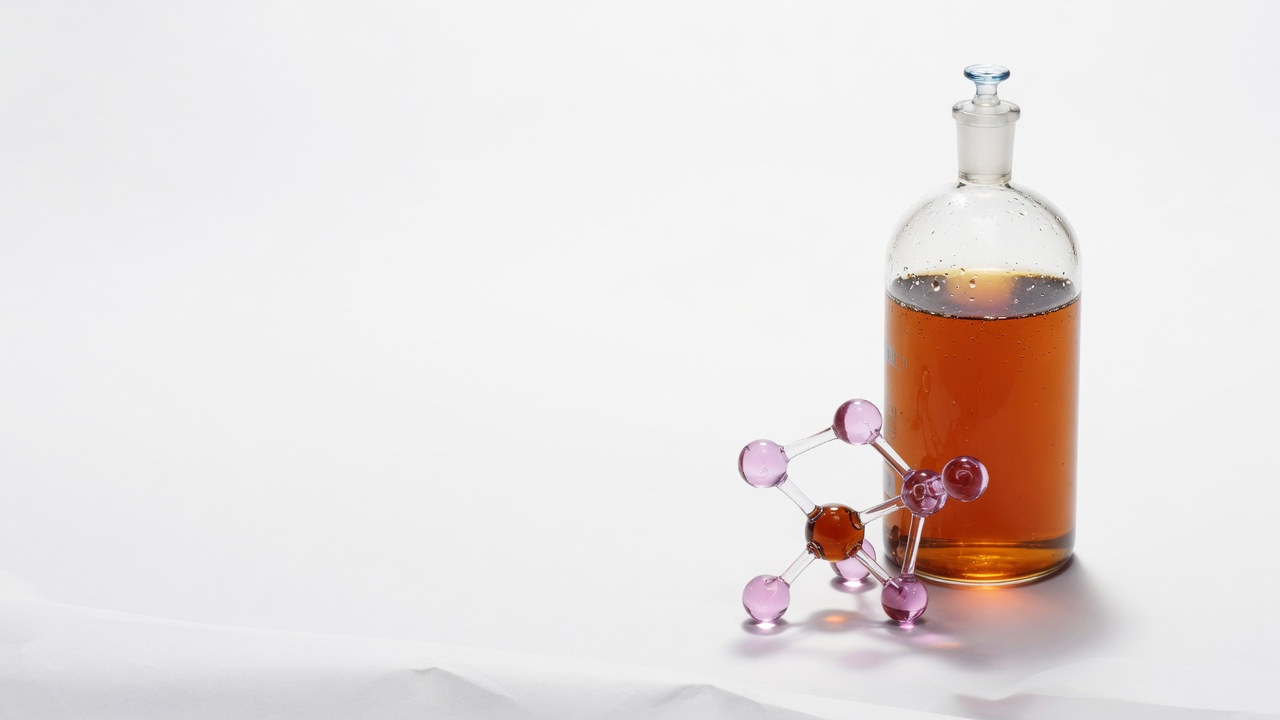
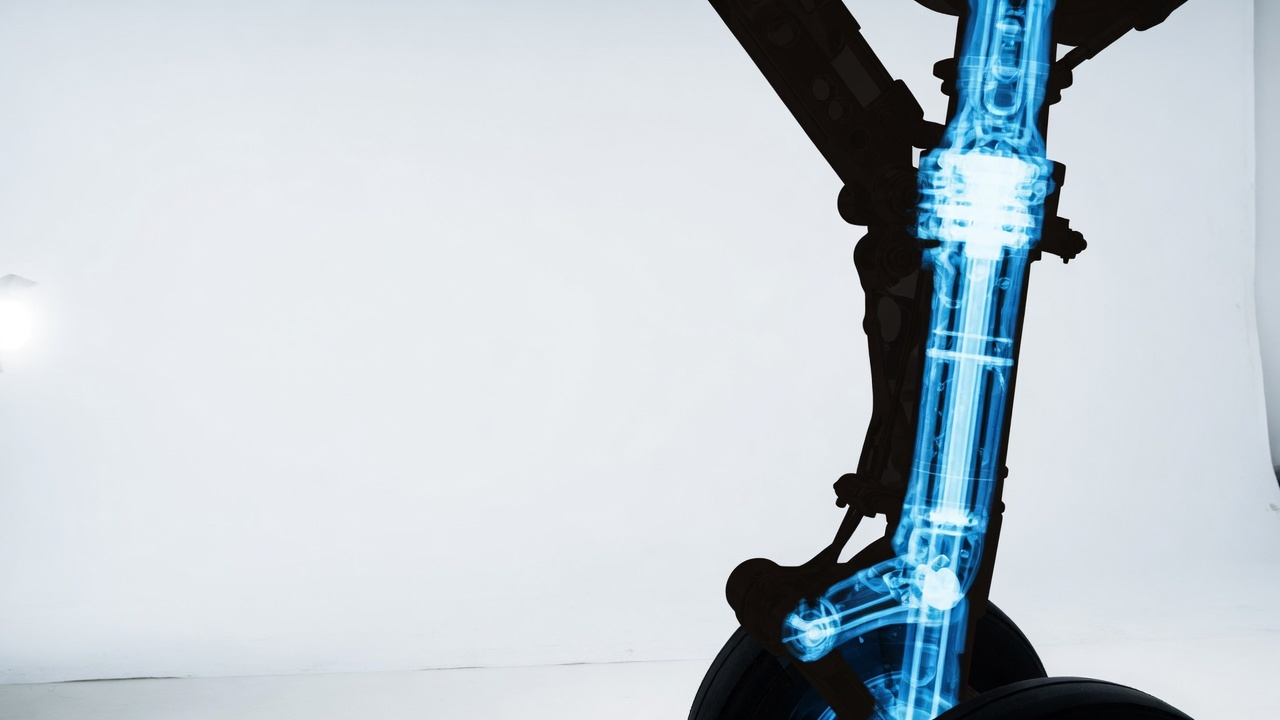
Fix contrast, full profile, x-ray reveal, and contacts
Add a white scrim so type stays readable over the tire. Read profile now includes every career chapter. Swap the chemistry still for an x-ray of the same landing gear. Remove the globe mark and restore email, LinkedIn, GitHub, and CV.

diff --git a/index.html b/index.html
@@ -68,7 +68,8 @@
       padding-inline: var(--pad-x);
       padding-top: var(--header-pt);
       padding-bottom: var(--section-gap);
-      display: flex; justify-content: space-between; align-items: center;
+      display: flex; justify-content: space-between; align-items: center; gap: 1rem;
+      background: linear-gradient(180deg, rgba(255,255,255,0.94) 0%, rgba(255,255,255,0.6) 70%, rgba(255,255,255,0) 100%);
     }
     .logo {
       font-family: 'Orbitron', sans-serif;
@@ -101,7 +102,11 @@
       main { flex-direction: row; justify-content: space-between; align-items: stretch; }
     }
 
-    .hero-left { display: flex; flex-direction: column; justify-content: center; max-width: 36rem; }
+    .hero-left {
+      display: flex; flex-direction: column; justify-content: center; max-width: 38rem;
+      padding: 1.25rem 1.5rem 1.25rem 0;
+      background: linear-gradient(90deg, rgba(255,255,255,0.96) 0%, rgba(255,255,255,0.88) 72%, rgba(255,255,255,0) 100%);
+    }
     .brackets { display: flex; }
     .headline {
       font-family: 'Orbitron', sans-serif;
@@ -126,11 +131,22 @@
     .cta:hover .arrow { transform: translate(2px, -2px); }
     .arrow { transition: transform 0.2s ease; width: var(--icon); height: var(--icon); }
 
-    .hero-right { align-self: flex-end; min-width: var(--feature-min); padding: var(--feature-pad); position: relative; }
+    .hero-right {
+      align-self: flex-end; min-width: var(--feature-min); padding: var(--feature-pad);
+      position: relative;
+      background: rgba(255,255,255,0.88);
+    }
     .hero-right p {
       font-weight: 600; text-transform: uppercase; letter-spacing: 0.18em;
-      font-size: var(--body); margin-top: 0.75rem;
+      font-size: var(--body);
     }
+    .contacts { display: flex; gap: 0.65rem; margin-top: 0.9rem; }
+    .contacts a {
+      width: 2rem; height: 2rem; display: grid; place-items: center;
+      border: 1px solid #9ca3af; color: #000; text-decoration: none;
+    }
+    .contacts a:hover { background: #000; color: #fff; border-color: #000; }
+    .contacts svg { width: 0.95rem; height: 0.95rem; }
     .corner { position: absolute; width: var(--corner); height: var(--corner); }
 
     .mobile-shot {
@@ -147,7 +163,7 @@
     .backdrop { position: absolute; inset: 0; background: rgba(0,0,0,0.2); backdrop-filter: blur(2px); }
     .drawer {
       position: absolute; top: 0; right: 0; height: 100%;
-      width: min(100%, var(--drawer-max));
+      width: min(100%, clamp(20rem, 34vw, 32rem));
       background: #fff; border-left: 1px solid #e5e7eb;
       padding: var(--drawer-pad);
       transform: translateX(100%);
@@ -166,6 +182,12 @@
     .drawer-body p { margin-bottom: 0.85rem; }
     .drawer-body ul { list-style: none; margin-top: 1rem; }
     .drawer-body li { border-top: 1px solid #e5e7eb; padding: 0.45rem 0; letter-spacing: 0.12em; text-transform: uppercase; font-size: var(--micro); }
+    .drawer-body h3 {
+      font-family: 'Orbitron', sans-serif; font-size: var(--nav);
+      letter-spacing: 0.16em; text-transform: uppercase; margin: 1.25rem 0 0.45rem;
+    }
+    .drawer-body .contact-row { margin-top: 1.5rem; letter-spacing: 0.04em; }
+    .drawer-body .contact-row a { color: #000; }
     .drawer-foot {
       margin-top: 2rem; text-align: center; color: #6b7280;
       font-size: var(--micro); letter-spacing: 0.14em; text-transform: uppercase;
@@ -217,7 +239,7 @@
           </span>
         </h1>
         <svg class="corner" viewBox="0 0 12 12" fill="none" stroke="currentColor" stroke-width="1.5"><path d="M0 0.5V11.5H11.5"/></svg>
-        <button class="cta" type="button" data-drawer="aerospace">
+        <button class="cta" type="button" data-drawer="profile">
           Read profile
           <svg class="arrow" viewBox="0 0 24 24" fill="none" stroke="currentColor" stroke-width="1.5"><path d="M7 17L17 7M8 7h9v9"/></svg>
         </button>
@@ -228,15 +250,18 @@
         <svg class="corner" style="top:0;right:0" viewBox="0 0 12 12" fill="none" stroke="currentColor" stroke-width="1.5"><path d="M0.5 0.5H11.5V11.5"/></svg>
         <svg class="corner" style="bottom:0;left:0" viewBox="0 0 12 12" fill="none" stroke="currentColor" stroke-width="1.5"><path d="M0 0.5V11.5H11.5"/></svg>
         <svg class="corner" style="bottom:0;right:0" viewBox="0 0 12 12" fill="none" stroke="currentColor" stroke-width="1.5"><path d="M0.5 11.5H11.5V0.5"/></svg>
-        <svg width="64" height="64" viewBox="0 0 64 64" fill="none" stroke="currentColor" stroke-width="1.2" style="width:var(--globe);height:var(--globe)">
-          <circle cx="32" cy="32" r="28"/>
-          <ellipse cx="32" cy="32" rx="28" ry="12"/>
-          <ellipse cx="32" cy="32" rx="28" ry="20"/>
-          <line x1="32" y1="4" x2="32" y2="60"/>
-          <ellipse cx="32" cy="32" rx="12" ry="28"/>
-          <ellipse cx="32" cy="32" rx="20" ry="28"/>
-        </svg>
         <p>M&amp;PT Engineer.<br />Collins Landing Systems.</p>
+        <div class="contacts">
+          <a href="mailto:jose@joseqc.com" title="Email" aria-label="Email">
+            <svg viewBox="0 0 24 24" fill="none" stroke="currentColor" stroke-width="1.5"><rect x="3" y="5" width="18" height="14" rx="1"/><path d="M3 7l9 6 9-6"/></svg>
+          </a>
+          <a href="https://www.linkedin.com/in/jf42/" target="_blank" rel="noopener" title="LinkedIn" aria-label="LinkedIn">
+            <svg viewBox="0 0 24 24" fill="currentColor"><path d="M6.5 9H4V20h2.5V9zM5.25 4A1.5 1.5 0 1 0 5.26 7a1.5 1.5 0 0 0 0-3zM20 20h-2.5v-5.6c0-1.8-.6-2.4-1.6-2.4s-1.7.9-1.7 2.5V20H11.7s.05-9.3 0-10.3H14.2v1.5c.5-.9 1.6-1.8 3.2-1.8 2.1 0 3.6 1.4 3.6 4.5V20z"/></svg>
+          </a>
+          <a href="https://github.com/fabreu08" target="_blank" rel="noopener" title="GitHub" aria-label="GitHub">
+            <svg viewBox="0 0 24 24" fill="currentColor"><path d="M12 2C6.48 2 2 6.58 2 12.26c0 4.52 2.87 8.35 6.84 9.71.5.1.68-.22.68-.49 0-.24-.01-.87-.01-1.71-2.78.62-3.37-1.37-3.37-1.37-.45-1.18-1.11-1.5-1.11-1.5-.91-.64.07-.63.07-.63 1 .07 1.53 1.06 1.53 1.06.9 1.57 2.36 1.12 2.94.86.09-.67.35-1.12.63-1.37-2.22-.26-4.56-1.14-4.56-5.07 0-1.12.39-2.03 1.03-2.75-.1-.26-.45-1.3.1-2.7 0 0 .84-.27 2.75 1.05A9.3 9.3 0 0 1 12 6.84c.85 0 1.7.12 2.5.34 1.9-1.32 2.74-1.05 2.74-1.05.55 1.4.2 2.44.1 2.7.64.72 1.03 1.63 1.03 2.75 0 3.94-2.34 4.8-4.57 5.06.36.32.68.94.68 1.9 0 1.37-.01 2.47-.01 2.81 0 .27.18.6.69.49A10.03 10.03 0 0 0 22 12.26C22 6.58 17.52 2 12 2z"/></svg>
+          </a>
+        </div>
       </aside>
     </main>
   </div>

diff --git a/js/reveal.js b/js/reveal.js
@@ -85,6 +85,29 @@ export function initDrawers() {
   const title = document.getElementById('drawerTitle');
   const body = document.getElementById('drawerBody');
   const drawers = {
+    profile: {
+      title: 'Profile',
+      html: `<p class="sub">José A. Fernández Abreu, M.S.</p>
+        <h3>Aerospace</h3>
+        <p>Materials &amp; Process Technology (M&amp;PT) Engineer at Collins Aerospace Landing Systems, an RTX business. A decade of regulated laboratory science, now applied to aerospace materials, special processes, and process engineering.</p>
+        <p>Coatings and finishes, chemical processing, process qualification, and NADCAP-governed control for landing gear in manufacturing, overhaul, and repair.</p>
+        <ul><li>NADCAP Gold</li><li>AC7108</li><li>FAA Part 145</li></ul>
+        <h3>Chemistry</h3>
+        <p>Years in high-volume wet chemistry — environmental enforcement and pharmaceutical laboratories — where titration, ion chromatography, spectroscopy, and chain-of-custody were the job. If the chemistry is not documented, it did not happen.</p>
+        <ul><li>EPA</li><li>USP</li><li>NELAC</li><li>cGMP</li></ul>
+        <h3>Microbiology</h3>
+        <p>Master’s-level microbiologist (University of Florida). In sterile-drug manufacturing: disinfectant efficacy studies, ISO 4 environmental monitoring, endotoxin testing, and isolate identification.</p>
+        <ul><li>ISO 4</li><li>USP &lt;85&gt;</li><li>EM</li></ul>
+        <h3>Systems</h3>
+        <p>The first professional chapter was information systems: hardware, networks, diagnostics. A process is only as good as the record it leaves behind. That instinct now sits under LIMS, process software, and special-process control.</p>
+        <ul><li>Networks</li><li>LIMS</li><li>Traceability</li></ul>
+        <p class="contact-row">
+          <a href="mailto:jose@joseqc.com">jose@joseqc.com</a><br />
+          <a href="https://www.linkedin.com/in/jf42/" target="_blank" rel="noopener">LinkedIn</a> ·
+          <a href="https://github.com/fabreu08" target="_blank" rel="noopener">GitHub</a> ·
+          <a href="https://drive.google.com/file/d/1FQXbq30I5GoH5onZDLqftWZvv_B0Z43d/view" target="_blank" rel="noopener">CV</a>
+        </p>`,
+    },
     aerospace: {
       title: 'Aerospace',
       html: `<p class="sub">Now · Collins Aerospace · Landing Systems</p>
